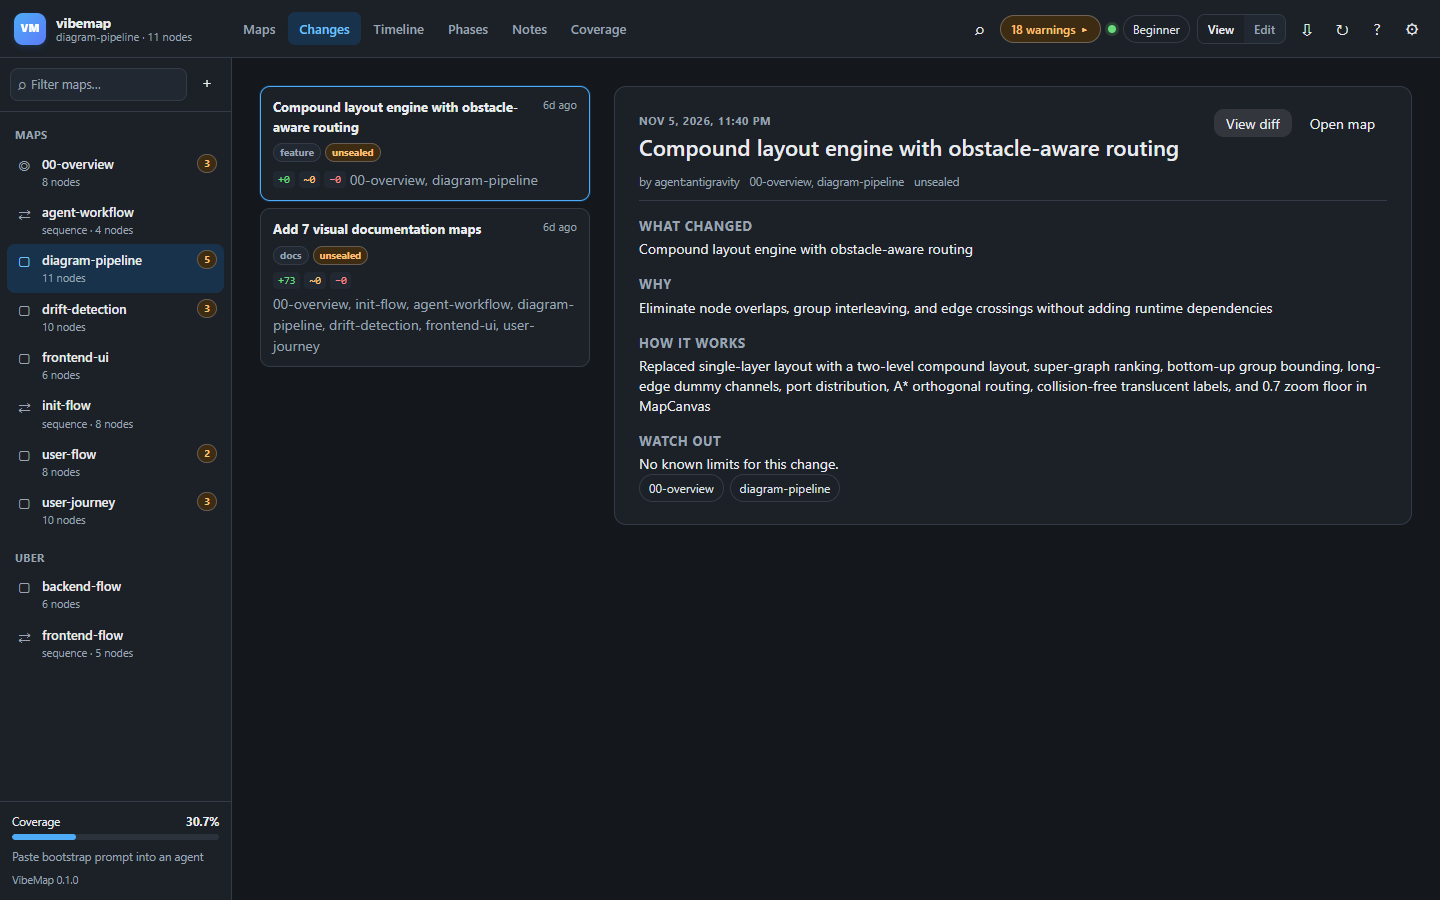
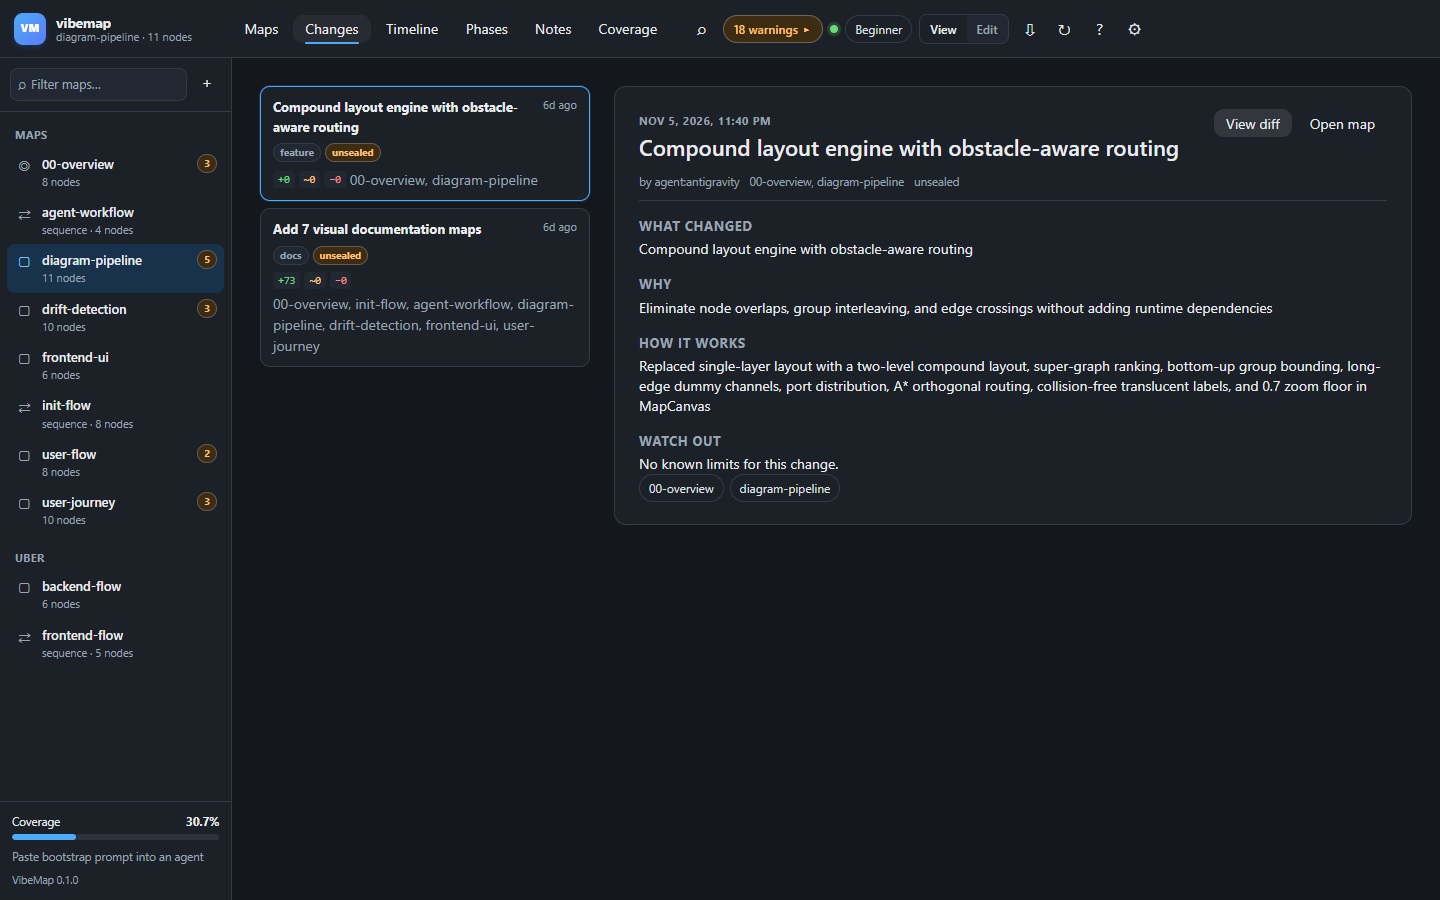
feat(ui): step 5.2 migrate top-level and panel navigation tabs to astryx

diff --git a/viewer/src/App.tsx b/viewer/src/App.tsx
@@ -1,6 +1,7 @@
 import React, { useCallback, useEffect, useMemo, useRef, useState } from 'react';
 import { Button } from '@astryxdesign/core/Button';
 import { IconButton } from '@astryxdesign/core/IconButton';
+import { Tab, TabList } from '@astryxdesign/core/TabList';
 import type {
   ChangeEntry,
   CheckReport,
@@ -1226,14 +1227,10 @@ export function App(): React.ReactElement {
               {bottom ? (
                 <div className="bottom-panel">
                   <div className="bottom-head">
-                    <div className="bottom-tabs">
-                      <button type="button" className={bottom === 'problems' ? 'active' : ''} onClick={() => setBottom('problems')}>
-                        Problems {check ? `(${check.errors.length + check.warnings.length})` : ''}
-                      </button>
-                      <button type="button" className={bottom === 'activity' ? 'active' : ''} onClick={() => setBottom('activity')}>
-                        Activity
-                      </button>
-                    </div>
+                    <TabList value={bottom} onChange={(val) => setBottom(val as 'problems' | 'activity')} size="sm">
+                      <Tab value="problems" label={`Problems ${check ? `(${check.errors.length + check.warnings.length})` : ''}`} />
+                      <Tab value="activity" label="Activity" />
+                    </TabList>
                     <IconButton label="Close panel" icon={<span aria-hidden="true">×</span>} variant="ghost" size="sm" onClick={() => setBottom(null)} />
                   </div>
                   <div className="bottom-body">

diff --git a/viewer/src/components/TopBar.tsx b/viewer/src/components/TopBar.tsx
@@ -1,6 +1,7 @@
 import React from 'react';
 import { Button } from '@astryxdesign/core/Button';
 import { IconButton } from '@astryxdesign/core/IconButton';
+import { Tab, TabList } from '@astryxdesign/core/TabList';
 import type { CheckReport, MapSummary, ViewerTab } from '@core/types';
 import type { MapDetail, ProjectInfo } from '../api';
 import { classNames } from '../util';
@@ -75,13 +76,11 @@ export function TopBar({
           </span>
         </div>
       </div>
-      <nav className="tabs" aria-label="Viewer sections">
+      <TabList value={tab} onChange={(val) => onTab(val as ViewerTab)} size="sm">
         {TABS.map((item) => (
-          <button key={item.id} type="button" className={classNames('tab', tab === item.id && 'active')} onClick={() => onTab(item.id)} title={`${item.label} (G then ${item.key})`}>
-            {item.label}
-          </button>
+          <Tab key={item.id} value={item.id} label={item.label} />
         ))}
-      </nav>
+      </TabList>
       <div className="topbar-actions">
         <IconButton label="Search (Ctrl/Cmd+K)" tooltip="Search (Ctrl/Cmd+K)" icon={<span aria-hidden="true">⌕</span>} variant="ghost" size="sm" onClick={onSearch} />
         <button type="button" className={classNames('check-pill', errors ? 'has-errors' : warnings ? 'has-warnings' : 'is-ok')} onClick={onProblems} title="Validation problems">
